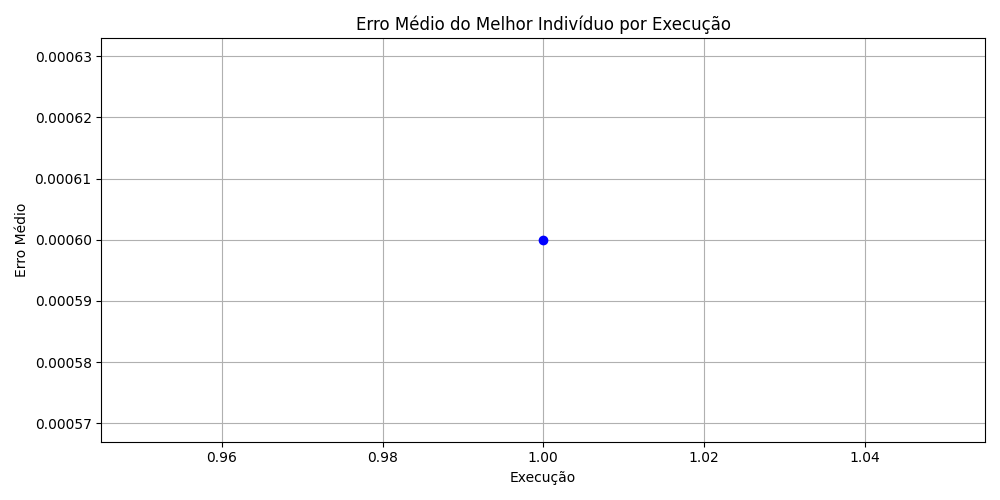
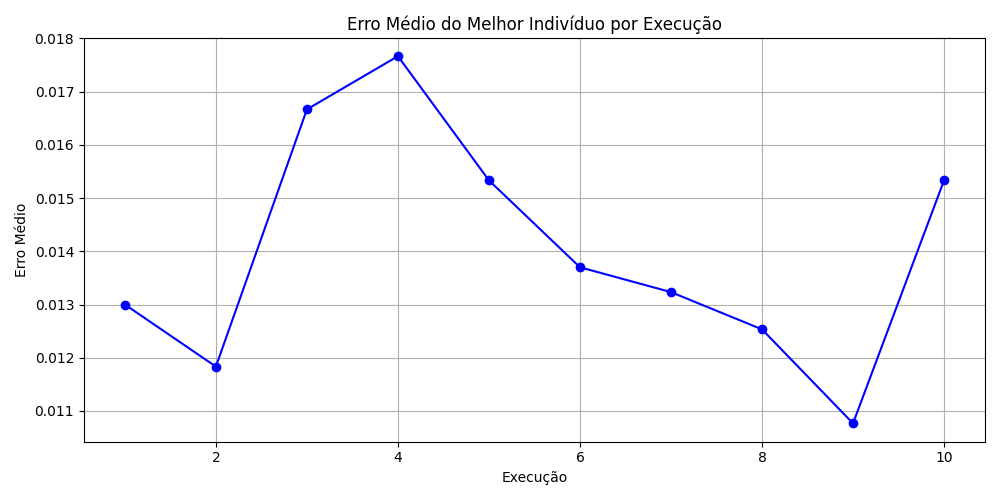
new ga result

diff --git a/hiperParametrization/ga_code.py b/hiperParametrization/ga_code.py
@@ -28,8 +28,9 @@ toolbox.register("attr_lamda", random.uniform, 0.1, 1.0)
 toolbox.register("attr_f", random.uniform, 0.5, 1.5)
 
 toolbox.register("individual", tools.initCycle, creator.Individual,
-                 (toolbox.attr_k_max, toolbox.attr_alfa, toolbox.attr_lamda,toolbox.attr_f,),
+                 (toolbox.attr_k_max, toolbox.attr_alfa, toolbox.attr_lamda, toolbox.attr_f),
                  n=1)
+
 toolbox.register("population", tools.initRepeat, list, toolbox.individual)
 
 # Carregar datasets uma única vez
@@ -47,9 +48,7 @@ def evaluate_individual(individual):
             'k_max': int(individual[0]),
             'alfa': float(individual[1]),
             'lamda': float(individual[2]),
-            'buffer': int(individual[3]),
-            'f': float(individual[4]),
-            'outlier_rate': float(individual[5]),
+            'f': float(individual[3]),
             'detect_outlier_with_ocpc': True
         }
 
@@ -63,20 +62,16 @@ def evaluate_individual(individual):
         return (total_error / len(datasets),)
     except Exception:
         return (1.0,)
+
     
 def mutate_with_limits(individual, mu, sigma, indpb):
     mutated_individual = tools.mutGaussian(individual, mu=mu, sigma=sigma, indpb=indpb)[0]
-    # Aplicar limites para k_max
-    mutated_individual[0] = max(2, min(10, int(round(mutated_individual[0])))) # Arredonda para inteiro
-    # Aplicar limites para alfa
-    mutated_individual[1] = max(0.1, min(1.0, mutated_individual[1]))
-    # Aplicar limites para lamda
-    mutated_individual[2] = max(0.1, min(1.0, mutated_individual[2]))
-    # 'buffer' é uma escolha, então não precisa de limite
-    # Aplicar limites para f
-    mutated_individual[4] = max(0.5, min(1.0, mutated_individual[4]))
-    # 'outlier_rate' é uma escolha, então não precisa de limite
+    mutated_individual[0] = max(2, min(10, int(round(mutated_individual[0]))))    # k_max
+    mutated_individual[1] = max(0.1, min(1.0, mutated_individual[1]))             # alfa
+    mutated_individual[2] = max(0.1, min(1.0, mutated_individual[2]))             # lamda
+    mutated_individual[3] = max(0.5, min(1.5, mutated_individual[3]))             # f
     return mutated_individual,
+
 
 # Configuração do GA
 toolbox.register("mate", tools.cxTwoPoint)
@@ -127,9 +122,7 @@ if __name__ == "__main__":
         'k_max': ind[0],
         'alfa': ind[1],
         'lamda': ind[2],
-        'buffer': ind[3],
-        'f': ind[4],
-        'outlier_rate': ind[5],
+        'f': ind[3],
         'avg_error_rate': error
     } for ind, error in zip(all_best_individuals, all_best_errors)])
 
@@ -152,3 +145,15 @@ if __name__ == "__main__":
     print("\n📊 Estatísticas das execuções:")
     print(f"Média da taxa de erro média: {mean_error:.4f}")
     print(f"Desvio padrão: {std_error:.4f}")
+
+    best_overall_idx = np.argmin(all_best_errors)
+    best_ind = all_best_individuals[best_overall_idx]
+    best_error = all_best_errors[best_overall_idx]
+
+    with open("best-subject.txt", "w") as f:
+        f.write("Melhor indivíduo:\n")
+        f.write(f"k_max: {int(best_ind[0])}\n")
+        f.write(f"alfa: {best_ind[1]:.4f}\n")
+        f.write(f"lamda: {best_ind[2]:.4f}\n")
+        f.write(f"f: {best_ind[3]:.4f}\n")
+        f.write(f"Erro médio: {best_error:.4f}\n")
